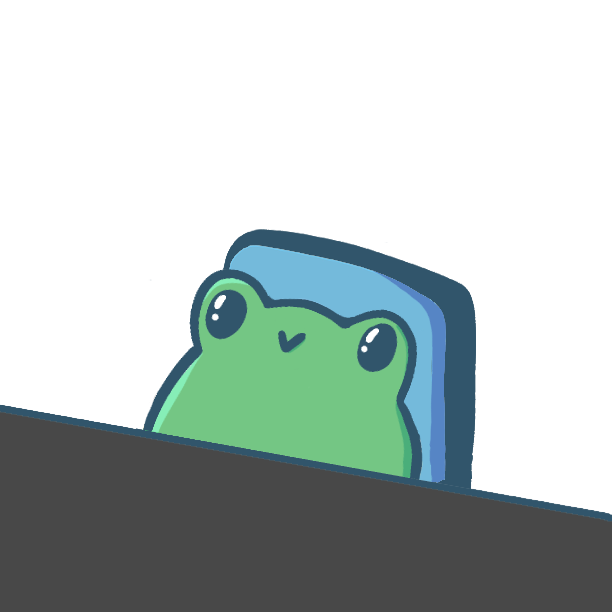
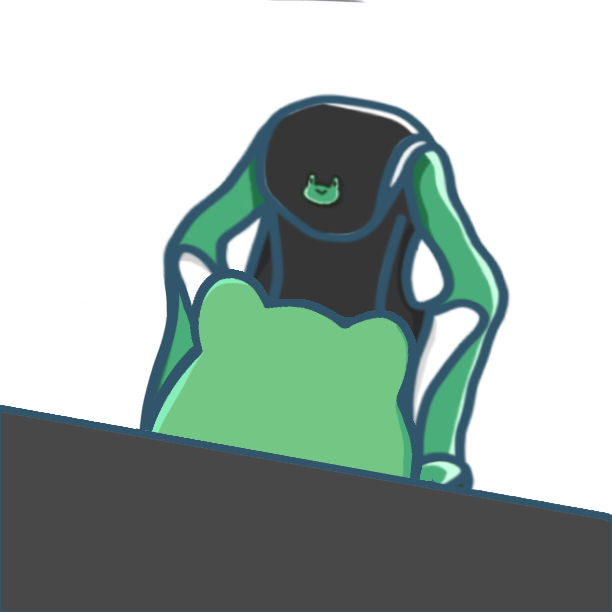
Changed mouth & eyes, hats & mouth shapes added.

diff --git a/front/sketch.js b/front/sketch.js
@@ -12,11 +12,16 @@ let tick = 0;
 let mousePosX = 0;
 let mousePosY = 0;
 
-const numOfHats = 20; // FIXME: when YAML available, move to that instaead of hard coding trash
+const numOfHats = 32; // FIXME: when YAML available, move to that instaead of hard coding trash
 const hats = new Array(numOfHats)
 let hatIdx = 0;
 let hatEnabled = false;
 let hatSpinCount = 0;
+
+
+const numOfMouths = 11; // FIXME: when YAML available, move to that instaead of hard coding trash
+const mouths = new Array(numOfMouths)
+let mouthIdx = 0;
 
 // Created a websocket that when closed tries to reconnet with some backoff
 startWebsocket = (ip, port, backoff) => {
@@ -49,7 +54,7 @@ startWebsocket = (ip, port, backoff) => {
       if (hatIdx == prevIdx) {
         hatIdx = (hatIdx + 1) % hats.length;
       }
-      hatSpinCount = 20;
+      hatSpinCount += 20;
       console.log(hatIdx);
     }
     ws.send("readyformore!");
@@ -72,25 +77,31 @@ startWebsocket("localhost", "9001", 32); // Start the websocket with expoentiona
 // Load images before setup
 function preload() {
 
-  images.mouthClosedEyesOpen = loadImage("assets/1.png");
-  images.mouthClosedEyesClosed = loadImage("assets/2.png");
-  images.mouthOpenEyesOpen = loadImage("assets/3.png");
-  images.mouthOpenEyesClosed = loadImage("assets/4.png");
+  images.mouthClosed = loadImage("assets/mouthClosed.png");
+  images.eyesClosed = loadImage("assets/eyesClosed.png");
+  images.eyesOpen = loadImage("assets/eyesOpen.png");
+
   images.keyPressDown = loadImage("assets/down.png");
   images.keyPressUp = loadImage("assets/up.png");
   images.bg = loadImage("assets/bg.png");
   images.mouse = loadImage("assets/mouse.png");
 
   for (let i = 0; i < numOfHats; i++) {
-    hats[i] = loadImage(`assets/hats/${i}.png`)
+    hats[i] = loadImage(`assets/Hats/${i}.png`)
+  }
+
+  for (let i = 0; i < numOfMouths; i++) {
+    mouths[i] = loadImage(`assets/MouthShapes/${i}.png`)
   }
 
 }
+let count = 0;
 
 function setup() {
   createCanvas(windowWidth, windowHeight);
 }
-
+let rndMouth;
+let temp;
 function draw() {
   // There must be a better way to do this
   tick++;
@@ -101,15 +112,18 @@ function draw() {
     tick = 0;
     blinkDelay = Math.floor(random(blinkDelayMin, blinkDelayMax));
   }
-  let imgBlinking = images.mouthClosedEyesOpen;
-  if (talking && blinking) {
-    imgBlinking = images.mouthOpenEyesClosed;
-  } else if (talking) {
-    imgBlinking = images.mouthOpenEyesOpen;
-  } else if (blinking) {
-    imgBlinking = images.mouthClosedEyesClosed;
-  }
 
+
+  count++;
+  if(count === 10){
+    rndMouth = mouths[Math.floor(random(0,(mouths.length)))]
+    count = 0;
+  }
+  
+  
+
+  const imgMouth = talking ? rndMouth : images.mouthClosed;
+  const imgEyes = blinking ? images.eyesClosed : images.eyesOpen;
   const imgHand = keyPress ? images.keyPressDown : images.keyPressUp;
 
 
@@ -135,8 +149,8 @@ function draw() {
   //background(0, 255, 0);
   clear();
   image(images.bg, 0, 0);
-  image(imgBlinking, 0, 0);
-
+  image(imgEyes, 0, 0);
+  image(imgMouth, 0, 0);
   image(imgHand, 0, 0);
   image(images.mouse, scaledMouseX - 35, scaledMouseY - 25);
 
@@ -150,7 +164,7 @@ function draw() {
   // Draw triangle to fill the missing area left by the curves
   triangle(225, 170 + 229, 200, 119 + 229, scaledMouseX, scaledMouseY);
 
-  strokeWeight(6);
+  strokeWeight(8);
   stroke(strokeColour);
 
   // Draw two curves for the mouse hand using scaledMouseX/Y
@@ -175,34 +189,46 @@ function draw() {
     200 + 229//c2
   );
   drawHat(hatIdx)
-}
-var delay = 1;
-var delayFactor = 1; 
-var fastDelayCycles = 6; 
-var currentCycle = 0; 
+}var delay = 1;
+var delayFactor = 1;
+var fastDelayCycles = 6;
+var currentCycle = 0;
 var hat;
+var prevHat;
 
 function drawHat(hatIdx) {
+  if (hatSpinCount > 20) {
+    delay = 1;
+    delayFactor = 1;
+    fastDelayCycles = 6;
+    currentCycle = 0;
+    hatSpinCount = 20;
+  }
+
   if (delay > 0) {
-    delay -= 1;
-    //console.log(delay);
+    delay--;
   } else {
     if (hatSpinCount > 0) {
-      //console.log("HatSpinCount: " + hatSpinCount);
+      prevHat = hat;
       hat = hats[Math.floor(Math.random() * hats.length)];
-      hatSpinCount -= 1;
+      
+      while (hat === prevHat) {
+        hat = hats[Math.floor(Math.random() * hats.length)];
+      }
+      
+      hatSpinCount--;
 
       if (currentCycle < fastDelayCycles) {
         delay = 1;
-        currentCycle += 1;
+        currentCycle++;
       } else {
-        delay = delayFactor; 
-        delayFactor += 1; 
+        delay = delayFactor;
+        delayFactor++;
       }
     } else {
       hat = hats[hatIdx];
-      delayFactor = 1; 
-      currentCycle = 0; 
+      delayFactor = 1;
+      currentCycle = 0;
     }
   }
 
